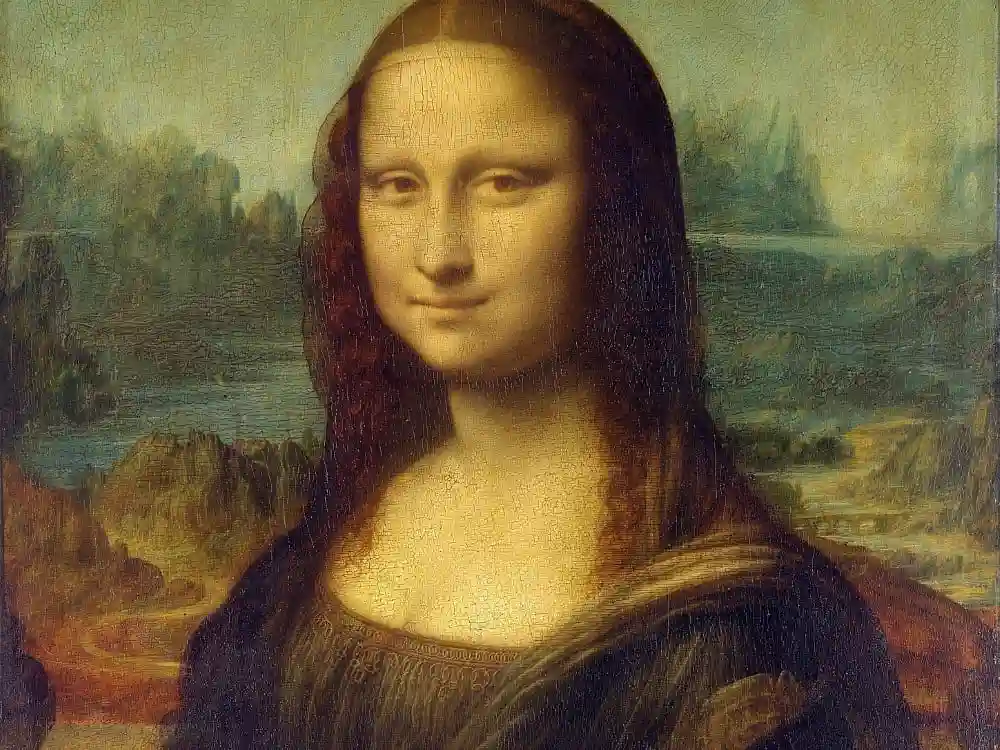
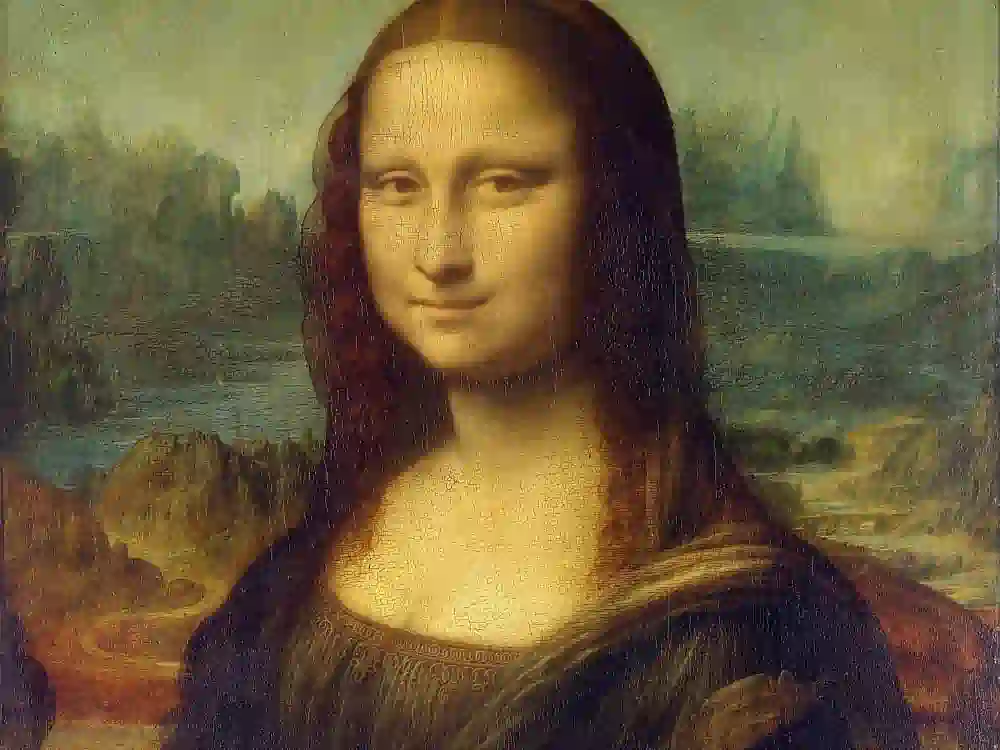
feat: prelod

diff --git a/index.html b/index.html
@@ -14,6 +14,8 @@
     <link rel="preload" href="assets/fonts/Roboto/Roboto-ExtraLight.ttf" as="font" type="font/ttf" crossorigin>
     <link rel="preload" href="assets/fonts/Roboto/Roboto-Bold.ttf" as="font" type="font/ttf" crossorigin>
     
+    <!-- <link rel=“preload” src=“assets/1.webp”> -->
+
     <link rel="icon" type="image/x-icon" href="assets/favicon.ico">
     <link rel="preload" href="styles.css" as="style" onload="this.rel='stylesheet'">
 </head>
@@ -70,7 +72,7 @@
                     <button class="button-hover" aria-label="Louvre" onclick="window.location.href='https://www.google.com/maps/@48.8618159,2.3366818,3a,75y,81.55h,73.4t/data=!3m7!1e1!3m5!1sAF1QipOVxZQuSy3Bx9T_HpH_7FtBHDTXvI6SF-A10ocT!2e10!3e12!7i5472!8i2736'">Discover the Louvre</button>
                 </div>
                 <div class="hero-image-block">
-                    <img src="assets/1.jpg" fetchpriority=high alt="Hero Image">
+                    <img src="assets/1.webp" fetchpriority=high alt="Hero Image">
                     <div class="hero-image-nav">
                         <p><span>01</span> | <span>05</span></p>
                         <svg class="nav-points" xmlns="http://www.w3.org/2000/svg" width="180" height="16" viewBox="0 0 180 16" fill="none">
